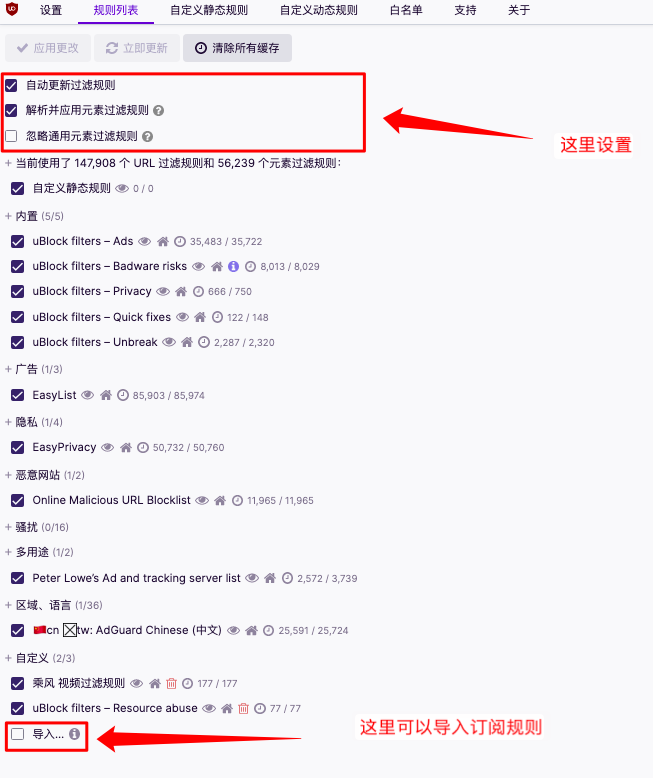
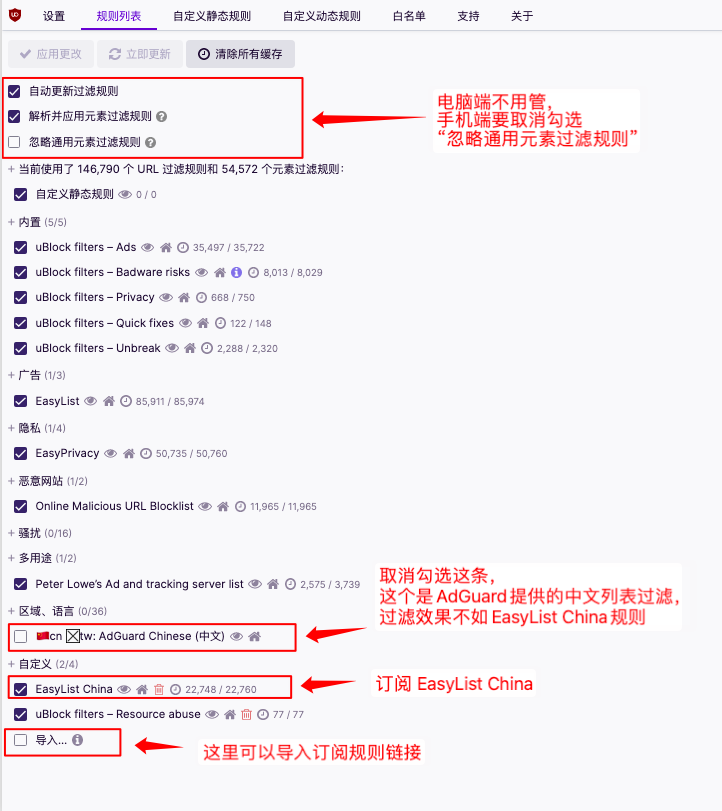
update

diff --git a/anti_ad/去广告过滤规则记录.md b/anti_ad/去广告过滤规则记录.md
@@ -10,12 +10,17 @@
 
 ## uBlock 比较稳定的版本推荐
 
-- 1.29.2
-  - [Chromium内核版插件下载](https://github.com/gorhill/uBlock/releases/download/1.29.2/uBlock0_1.29.2.chromium.zip)
-- 1.39.2
-  - [Chromium内核版下载](https://github.com/gorhill/uBlock/releases/download/1.39.2/uBlock0_1.39.2.chromium.zip)
-- 1.48.8
-  - [Chromium内核版下载](https://github.com/gorhill/uBlock/releases/download/1.48.8/uBlock0_1.48.8.chromium.zip)
+> 1.29.2
+
+[Chromium内核版下载](https://github.com/gorhill/uBlock/releases/download/1.29.2/uBlock0_1.29.2.chromium.zip)
+
+> 1.39.2
+
+[Chromium内核版下载](https://github.com/gorhill/uBlock/releases/download/1.39.2/uBlock0_1.39.2.chromium.zip)
+
+> 1.48.8
+
+[Chromium内核版下载](https://github.com/gorhill/uBlock/releases/download/1.48.8/uBlock0_1.48.8.chromium.zip)
 
 
 
@@ -63,14 +68,14 @@
 
 
 
-## 浏览器插件规则方案建议:
-### uBlock插件订阅方案，
+## 浏览器插件规则方案建议
+### uBlock插件订阅方案
 
 #### A方案
 
 插件默认订阅即可，如果需要过滤一些哎哟疼的广告，可额外订阅一条乘风的过滤规则
 
-##### 订阅参考图: 
+##### 订阅参考图
 
 ![img](./img/ublock订阅方案A.png)
 
@@ -78,11 +83,11 @@
 
 保留“内置”订阅，然后订阅一条由 uniartisan 合并的规则即可，可参考以下图订阅
 
-##### 订阅参考图: 
+##### 订阅参考图
 
-![img](./img/uBlock订阅推荐.png)
+![img](./img/uBlock订阅方案B.png)
 
-### AdGuard 插件订阅方案，
+### AdGuard 插件订阅方案
 
 #### A方案
 
@@ -94,7 +99,7 @@
 
 具体步骤 “设置选项” --> “过滤器” --> “自定义” --> “添加自定义过滤器”
 
-##### 订阅参考图: 
+##### 订阅参考图
 
 ![img](./img/AdGuard取消勾选.png)
 ![img](./img/AdGuard订阅规则推荐.png)

diff --git a/misc/记录一些安卓软件.md b/misc/记录一些安卓软件.md
@@ -290,7 +290,7 @@ Windows版
 
 ### [cloudstream](https://github.com/recloudstream/cloudstream)
 
-> 需要使用的插件仓库：[https://github.com/hexated/cloudstream-extensions-hexated](https://github.com/hexated/cloudstream-extensions-hexated)
+> 需要使用的插件仓库：[https://codeberg.org/cloudstream/cloudstream-extensions](https://codeberg.org/cloudstream/cloudstream-extensions)
 
 > 仓库配置链接可以使用的：[https://codeberg.org/cloudstream/cloudstream-extensions/raw/branch/builds/repo.json](https://codeberg.org/cloudstream/cloudstream-extensions/raw/branch/builds/repo.json)
 
@@ -389,5 +389,5 @@ Windows版
 
 ### emu系列汉化
 
-[<夏暖i> 资源网盘](http://xianuani.ysepan.com) 
+[夏暖i 资源网盘](http://xianuani.ysepan.com) 
 
